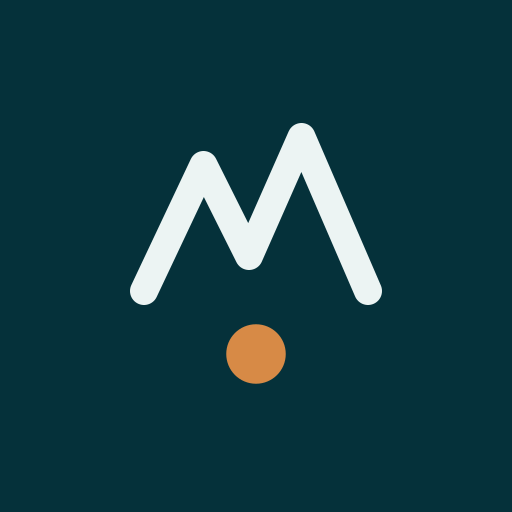
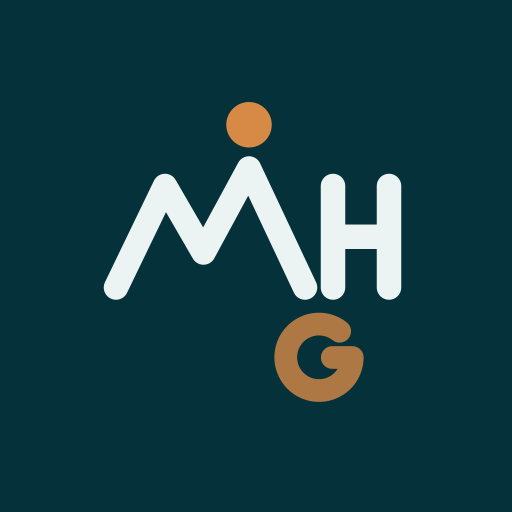
Keep the two new marks faithful to their originals
Review of the admin preview showed three departures from the sketches the
team chose from, none of them asked for.

- Written in Water: the H and G are translucent again (40%), keeping the
  written-on-water quality of the original rather than solid letterforms.
- Goal in the Water: the reflected G returns to where the original had it,
  beneath the point where the mountain meets the H, not under the H.
- The simplified glyph now applies only where it is needed — the 16 to 48 px
  browser-tab favicons. App icons, the avatar and the social card carry the
  full mark, scaled to fit the tile when the mark is wide. Goal in the
  Water's small glyph shows the reflected G rather than a plain point.

The admin preview labels its samples — Header, App icon, Favicon, 16 px —
so the size tiering reads as deliberate instead of looking like a mistake.

The three existing variants' asset files are unchanged.

Changed region(s): [[0.1875, 0.1875, 0.8125, 0.7812]]

diff --git a/scripts/generate-brand-assets.ts b/scripts/generate-brand-assets.ts
@@ -59,6 +59,30 @@ const markSVG = (
 }
 
 /**
+ * Square tile carrying the full mark — app icons and PWA icons, where the real
+ * mark is legible. Wide marks are scaled to fit inside a margin; square marks
+ * draw at full size, byte-for-byte the same as the favicon tile.
+ */
+const appIconSVG = (variant: LogoVariant, colors: { form: string; accent: string }): string => {
+  const w = markWidth(variant)
+  const background = { fill: BRAND_COLORS.deep, radius: 20 }
+  if (w <= MARK_HEIGHT) return markSVG(variant, colors, { background })
+
+  const inner = 84
+  const s = inner / w
+  const tx = (MARK_HEIGHT - w * s) / 2
+  const ty = (MARK_HEIGHT - MARK_HEIGHT * s) / 2
+
+  return `<svg xmlns="http://www.w3.org/2000/svg" width="96" height="96" viewBox="0 0 96 96" role="img" aria-label="${MARKS[variant].label}">
+    <rect width="96" height="96" rx="${background.radius}" fill="${background.fill}"/>
+    <g transform="translate(${tx.toFixed(2)} ${ty.toFixed(2)}) scale(${s.toFixed(4)})">
+    ${markElementsToSVG(variant, colors)}
+    </g>
+</svg>
+`
+}
+
+/**
  * Horizontal lockup: mark beside the two-line wordmark.
  *
  * Type is set as live text with a font stack rather than outlines — correct for
@@ -115,14 +139,21 @@ const ogSVG = (variant: LogoVariant): string =>
  * Avatar: mark reversed out of a deep field, sized so nothing important is lost
  * when a platform crops it to a circle (content stays inside the inscribed circle).
  */
-const avatarSVG = (variant: LogoVariant): string =>
-  `<svg xmlns="http://www.w3.org/2000/svg" width="512" height="512" viewBox="0 0 512 512">
+const avatarSVG = (variant: LogoVariant): string => {
+  const w = markWidth(variant)
+  // 336 px content box centred in 512 keeps everything inside the circle crop.
+  const s = Math.min(336 / w, 3.5)
+  const tx = (512 - w * s) / 2
+  const ty = (512 - MARK_HEIGHT * s) / 2
+
+  return `<svg xmlns="http://www.w3.org/2000/svg" width="512" height="512" viewBox="0 0 512 512">
   <rect width="512" height="512" fill="${BRAND_COLORS.deep}"/>
-  <g transform="translate(88 88) scale(3.5)">
-    ${markElementsToSVG(variant, { form: BRAND_COLORS.reversed, accent: BRAND_COLORS.amberOnDark }, 'compact')}
+  <g transform="translate(${+tx.toFixed(2)} ${+ty.toFixed(2)}) scale(${+s.toFixed(4)})">
+    ${markElementsToSVG(variant, { form: BRAND_COLORS.reversed, accent: BRAND_COLORS.amberOnDark })}
   </g>
 </svg>
 `
+}
 
 const png = async (svg: string, size: number, out: string): Promise<void> => {
   await sharp(Buffer.from(svg))
@@ -168,26 +199,30 @@ const writeVariant = async (variant: LogoVariant): Promise<string[]> => {
     lockupStackedSVG(variant, { ...onLight, text: BRAND_COLORS.ink }),
   )
 
-  // Favicon master: mark reversed out of a rounded deep tile, which holds up
-  // against both light and dark browser chrome far better than a bare mark.
+  // Favicon master: the compact glyph reversed out of a rounded deep tile,
+  // which holds up against both light and dark browser chrome far better than
+  // a bare mark. Browser tabs run 16–48 px, where a wide mark cannot survive.
   const faviconSvg = markSVG(variant, onDark, {
     background: { fill: BRAND_COLORS.deep, radius: 20 },
     mode: 'compact',
   })
   await write('favicon.svg', faviconSvg)
 
+  // App icons are large enough for the real mark.
+  const appIconSvg = appIconSVG(variant, onDark)
+
   // --- Raster exports -------------------------------------------------------
-  const rasters: Array<[string, number]> = [
-    ['favicon-16.png', 16],
-    ['favicon-32.png', 32],
-    ['favicon-48.png', 48],
-    ['apple-touch-icon.png', 180],
-    ['icon-192.png', 192],
-    ['icon-512.png', 512],
+  const rasters: Array<[string, number, string]> = [
+    ['favicon-16.png', 16, faviconSvg],
+    ['favicon-32.png', 32, faviconSvg],
+    ['favicon-48.png', 48, faviconSvg],
+    ['apple-touch-icon.png', 180, appIconSvg],
+    ['icon-192.png', 192, appIconSvg],
+    ['icon-512.png', 512, appIconSvg],
   ]
 
-  for (const [file, size] of rasters) {
-    await png(faviconSvg, size, path.join(dir, file))
+  for (const [file, size, source] of rasters) {
+    await png(source, size, path.join(dir, file))
     written.push(file)
   }
 
@@ -239,9 +274,10 @@ icon and social card all follow that setting.
 | \`mark-512.png\`, \`mark-on-dark-512.png\` | Transparent PNGs for slides and documents |
 
 Wide or detailed marks (the acronym and reflection variants) tier down to a
-simpler **compact glyph** for the favicon, app icons and avatar — three
-letterforms or a faint reflection are illegible at 16 px. The compact glyph is
-declared alongside the full mark in \`src/brand/marks.ts\`.
+simpler **compact glyph** for the browser-tab favicons (16–48 px), where three
+letterforms or a faint reflection are illegible. App icons, the avatar and the
+social card carry the full mark. The compact glyph is declared alongside the
+full mark in \`src/brand/marks.ts\`.
 
 ## Usage rules
 

diff --git a/src/brand/LogoPreview.tsx b/src/brand/LogoPreview.tsx
@@ -5,12 +5,30 @@ import { useFormFields } from '@payloadcms/ui'
 
 import { BrandMark } from '@/components/Logo/BrandMark'
 import { BRAND_COLORS } from '@/brand/tokens'
-import { LOGO_VARIANTS, MARKS, resolveLogoVariant } from '@/brand/marks'
+import { LOGO_VARIANTS, MARKS, markWidth, resolveLogoVariant } from '@/brand/marks'
+
+const Sample: React.FC<{ label: string; children: React.ReactNode }> = ({ label, children }) => (
+  <div style={{ display: 'flex', flexDirection: 'column', alignItems: 'center', gap: 6 }}>
+    <div style={{ height: 40, display: 'flex', alignItems: 'center' }}>{children}</div>
+    <span
+      style={{
+        fontSize: '0.62rem',
+        letterSpacing: '0.08em',
+        textTransform: 'uppercase',
+        opacity: 0.55,
+      }}
+    >
+      {label}
+    </span>
+  </div>
+)
 
 /**
  * Admin-only preview: shows every mark side by side with the selected one
- * highlighted, on light and dark grounds and at favicon scale, so an editor can
- * see what they are choosing without leaving the field.
+ * highlighted, at each size tier it is used at — header, app icon, favicon and
+ * 16 px — so an editor can see what they are choosing without leaving the
+ * field. Marks that are wide or detailed draw a simplified glyph at favicon
+ * sizes; the labels make that tiering visible rather than surprising.
  */
 export const LogoPreview: React.FC = () => {
   const value = useFormFields(([fields]) => fields?.logoVariant?.value)
@@ -42,28 +60,54 @@ export const LogoPreview: React.FC = () => {
                 borderRadius: 6,
                 padding: '0.9rem 1rem',
                 background: BRAND_COLORS.paper,
-                minWidth: 220,
+                minWidth: 250,
                 opacity: isSelected ? 1 : 0.55,
               }}
             >
-              <div style={{ display: 'flex', alignItems: 'center', gap: '0.9rem' }}>
-                <div style={{ color: BRAND_COLORS.petrol, lineHeight: 0 }}>
-                  <BrandMark size={40} variant={variant} title={MARKS[variant].label} />
-                </div>
-                <div
-                  style={{
-                    background: BRAND_COLORS.deep,
-                    color: BRAND_COLORS.reversed,
-                    borderRadius: 8,
-                    padding: '0.35rem',
-                    lineHeight: 0,
-                  }}
-                >
-                  <BrandMark compact size={32} variant={variant} />
-                </div>
-                <div style={{ color: BRAND_COLORS.petrol, lineHeight: 0 }}>
-                  <BrandMark compact size={16} variant={variant} />
-                </div>
+              <div style={{ display: 'flex', alignItems: 'flex-start', gap: '1.1rem' }}>
+                <Sample label="Header">
+                  <div style={{ color: BRAND_COLORS.petrol, lineHeight: 0 }}>
+                    <BrandMark size={40} variant={variant} title={MARKS[variant].label} />
+                  </div>
+                </Sample>
+                <Sample label="App icon">
+                  <div
+                    style={{
+                      background: BRAND_COLORS.deep,
+                      color: BRAND_COLORS.reversed,
+                      borderRadius: 8,
+                      width: 40,
+                      height: 40,
+                      display: 'flex',
+                      alignItems: 'center',
+                      justifyContent: 'center',
+                      lineHeight: 0,
+                    }}
+                  >
+                    <BrandMark
+                      size={Math.round(40 / Math.max(1, markWidth(variant) / 96))}
+                      variant={variant}
+                    />
+                  </div>
+                </Sample>
+                <Sample label="Favicon">
+                  <div
+                    style={{
+                      background: BRAND_COLORS.deep,
+                      color: BRAND_COLORS.reversed,
+                      borderRadius: 6,
+                      padding: '0.25rem',
+                      lineHeight: 0,
+                    }}
+                  >
+                    <BrandMark compact size={24} variant={variant} />
+                  </div>
+                </Sample>
+                <Sample label="16 px">
+                  <div style={{ color: BRAND_COLORS.petrol, lineHeight: 0, paddingTop: 8 }}>
+                    <BrandMark compact size={16} variant={variant} />
+                  </div>
+                </Sample>
               </div>
 
               <div

diff --git a/src/brand/marks.ts b/src/brand/marks.ts
@@ -13,8 +13,9 @@
  * stroke scale, so swapping variants keeps the same weight in the header.
  *
  * Wide or detailed marks also declare a `compact` glyph: what the mark tiers
- * down to at favicon and app-icon sizes, where three letterforms or a faint
- * reflection would be illegible.
+ * down to at favicon sizes (48 px and below), where three letterforms or a
+ * faint reflection would be illegible. App icons, avatars and social cards
+ * carry the full mark.
  */
 
 export const LOGO_VARIANTS = [
@@ -63,8 +64,8 @@ export interface MarkDefinition {
   /** Drawing width in grid units. Height is always 96. Defaults to 96 (square). */
   width?: number
   /**
-   * Simplified glyph used at tiny sizes — favicons, app icons, avatars. Always
-   * drawn in a 96 x 96 box. Defaults to `elements`.
+   * Simplified glyph used at favicon sizes (48 px and below). Always drawn in a
+   * 96 x 96 box. Defaults to `elements`.
    */
   compact?: MarkElement[]
 }
@@ -134,7 +135,7 @@ export const MARKS: Record<LogoVariant, MarkDefinition> = {
     label: 'Written in Water — H and G beside the mountain',
     description:
       'Summit M with the H and G standing alongside it on the shoreline, spelling the acronym.',
-    note: 'The acronym mark. The letters share the mountain’s stroke and sit level with its lower peak; the G is a true single-stroke G with an inward spur. At favicon size it tiers down to Summit M alone.',
+    note: 'The acronym mark. The letters share the mountain’s stroke and sit level with its lower peak, drawn at 40% so they keep the translucent, written-on-water quality of the original; the G is a true single-stroke G with an inward spur. Below 48 px it tiers down to Summit M alone.',
     width: 184,
     elements: [
       ...SUMMIT_ELEMENTS,
@@ -145,6 +146,7 @@ export const MARKS: Record<LogoVariant, MarkDefinition> = {
         strokeWidth: 8,
         linecap: 'round',
         linejoin: 'round',
+        opacity: 0.4,
       },
       {
         kind: 'path',
@@ -153,6 +155,7 @@ export const MARKS: Record<LogoVariant, MarkDefinition> = {
         strokeWidth: 8,
         linecap: 'round',
         linejoin: 'round',
+        opacity: 0.4,
       },
     ],
     compact: SUMMIT_ELEMENTS,
@@ -161,7 +164,7 @@ export const MARKS: Record<LogoVariant, MarkDefinition> = {
     label: 'Goal in the Water — the G reflected below',
     description:
       'The mountain and an H stand on the shore; what reflects in the water beneath is the amber G.',
-    note: 'The narrative mark: look into the water and the goal is what you find. The G sits directly beneath the H at 80% amber, so it reads as submerged without going pale. At favicon size it tiers down to the peaks over a single amber point.',
+    note: 'The narrative mark: look into the water and the goal is what you find. As in the original, the G is reflected beneath the point where the mountain meets the H, at 80% amber so it reads as submerged without going pale. Below 48 px it tiers down to the peaks over the reflected G.',
     elements: [
       {
         kind: 'path',
@@ -182,7 +185,7 @@ export const MARKS: Record<LogoVariant, MarkDefinition> = {
       },
       {
         kind: 'path',
-        d: 'M 83.9 69.5 A 9.5 9.5 0 1 0 87.5 77 L 81.8 77',
+        d: 'M 71.9 69.5 A 9.5 9.5 0 1 0 75.5 77 L 69.8 77',
         role: 'accent',
         strokeWidth: 6.5,
         linecap: 'round',
@@ -199,7 +202,15 @@ export const MARKS: Record<LogoVariant, MarkDefinition> = {
         linecap: 'round',
         linejoin: 'round',
       },
-      { kind: 'circle', cx: 48, cy: 76, r: 8.5, role: 'accent' },
+      {
+        kind: 'path',
+        d: 'M 53.5 70.9 A 9 9 0 1 0 57 78 L 51.6 78',
+        role: 'accent',
+        strokeWidth: 7,
+        linecap: 'round',
+        linejoin: 'round',
+        opacity: 0.8,
+      },
     ],
   },
 }

diff --git a/README.md b/README.md
@@ -130,7 +130,7 @@ setting, and the field shows a live preview of each option.
 | `summit` _(default)_ | **Summit M** — rising peaks forming an M, amber goal above the summit              |
 | `sunInCol`           | **Sun in the Col** — the same mountain with round shoulders, holding the amber sun |
 | `rings`              | **Concentric Rings** — the original launch mark                                    |
-| `writtenInWater`     | **Written in Water** — Summit M with the H and G standing alongside it             |
+| `writtenInWater`     | **Written in Water** — Summit M with a translucent H and G standing alongside it   |
 | `goalInWater`        | **Goal in the Water** — mountain and H on the shore, the amber G reflected below   |
 
 Geometry lives in `src/brand/marks.ts` and colours in `src/brand/tokens.ts`.

diff --git a/public/brand/README.md b/public/brand/README.md
@@ -27,9 +27,10 @@ icon and social card all follow that setting.
 | `mark-512.png`, `mark-on-dark-512.png` | Transparent PNGs for slides and documents |
 
 Wide or detailed marks (the acronym and reflection variants) tier down to a
-simpler **compact glyph** for the favicon, app icons and avatar — three
-letterforms or a faint reflection are illegible at 16 px. The compact glyph is
-declared alongside the full mark in `src/brand/marks.ts`.
+simpler **compact glyph** for the browser-tab favicons (16–48 px), where three
+letterforms or a faint reflection are illegible. App icons, the avatar and the
+social card carry the full mark. The compact glyph is declared alongside the
+full mark in `src/brand/marks.ts`.
 
 ## Usage rules
 
